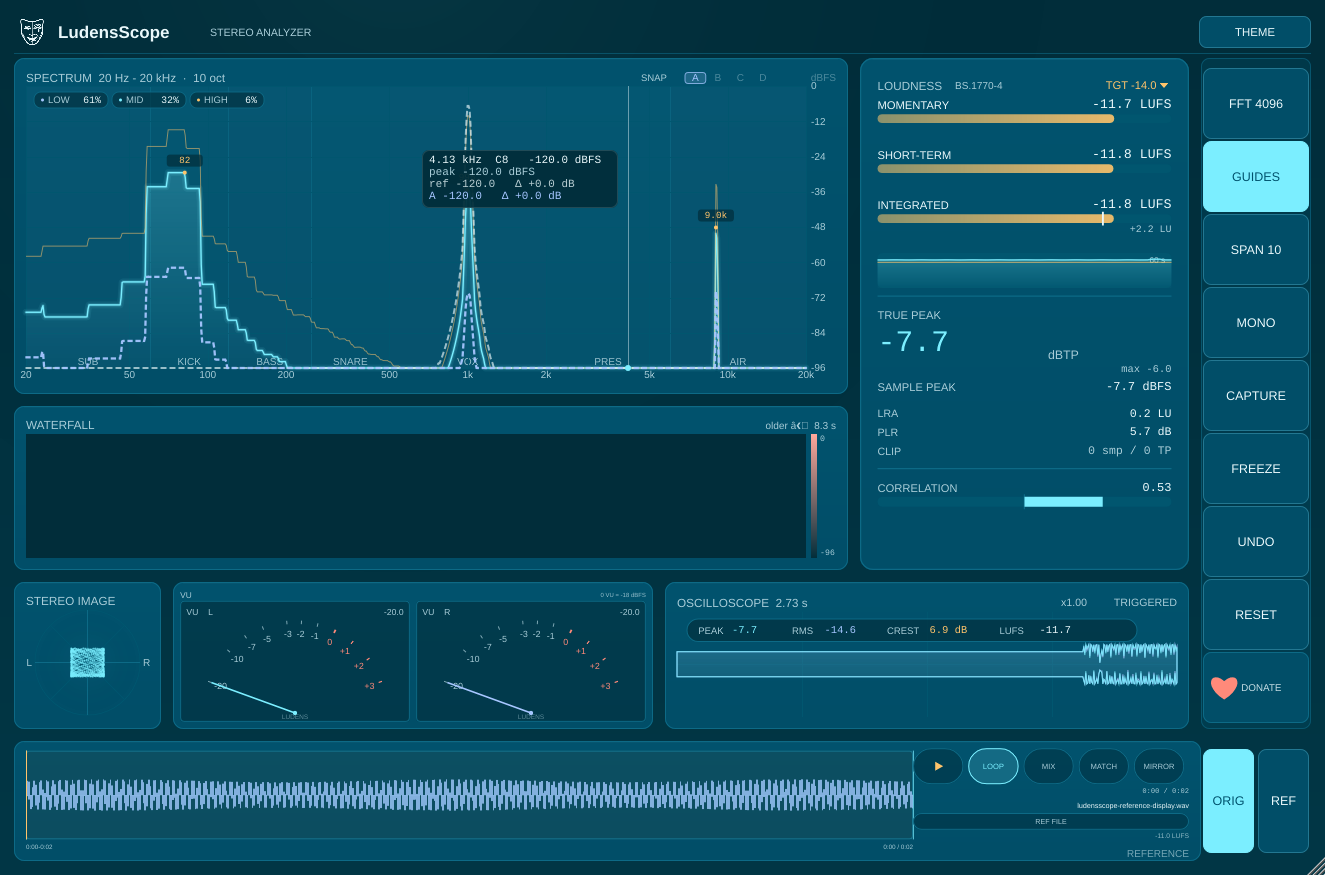
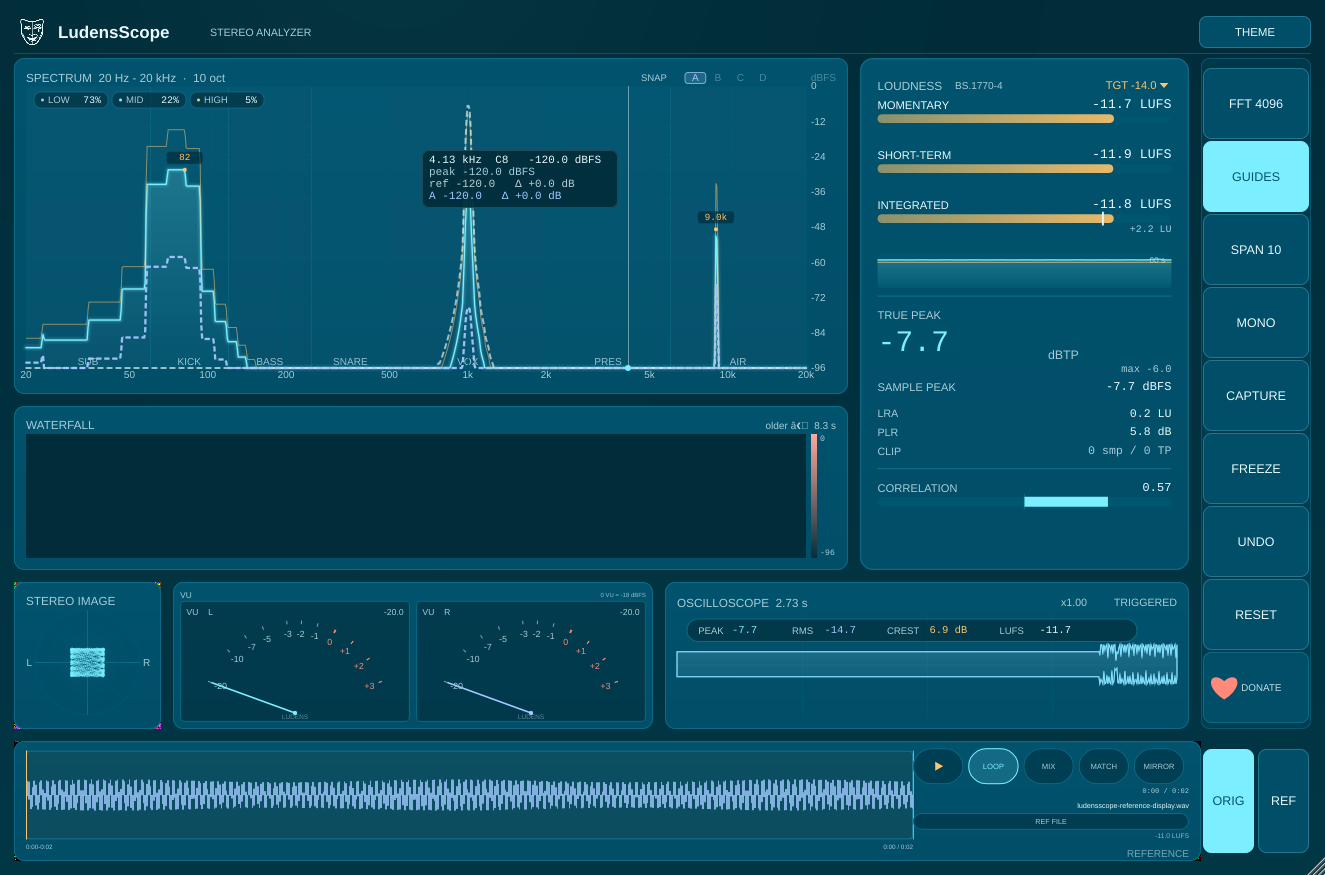
ui: mark panels opaque and buffered to stop window flicker
The spectrum, waterfall, meter panel, vector scope, oscilloscope, VU
and reference strip repainted every 30 Hz without being opaque or
buffered, so the host window could flash slightly during long sessions.
Each panel now sets setOpaque(true) and setBufferedToImage(true); the
editor already was opaque. Tests 3/3; QA renders still fine.

diff --git a/Source/ui/VectorScopeView.h b/Source/ui/VectorScopeView.h
@@ -11,6 +11,13 @@
 class VectorScopeView : public juce::Component
 {
 public:
+    VectorScopeView()
+    {
+        setOpaque (true);
+        setBufferedToImage (true);
+    }
+
+public:
     void setData (const float* leftSamples, const float* rightSamples, int numSamples)
     {
         left.assign (leftSamples, leftSamples + numSamples);

diff --git a/Source/ui/OscilloscopeView.h b/Source/ui/OscilloscopeView.h
@@ -13,7 +13,11 @@
 class OscilloscopeView : public juce::Component
 {
 public:
-    OscilloscopeView() = default;
+    OscilloscopeView()
+    {
+        setOpaque (true);
+        setBufferedToImage (true);
+    }
 
     void setData (const float* leftSamples, const float* rightSamples,
                   int numSamples, bool frozen)

diff --git a/Source/ui/VuMeterView.h b/Source/ui/VuMeterView.h
@@ -16,7 +16,11 @@
 class VuMeterView : public juce::Component
 {
 public:
-    VuMeterView() = default;
+    VuMeterView()
+    {
+        setOpaque (true);
+        setBufferedToImage (true);
+    }
 
     // Puts both needles back on their mechanical rest stop (left, -20 VU).
     void setRest() noexcept

diff --git a/Source/ui/SpectrogramView.h b/Source/ui/SpectrogramView.h
@@ -14,6 +14,9 @@ class SpectrogramView : public juce::Component
 public:
     SpectrogramView()
     {
+        setOpaque (true);
+        setBufferedToImage (true);
+
         for (int i = 0; i < paletteSize; ++i)
             palette[(size_t) i] = heat ((float) i / (float) (paletteSize - 1));
 

diff --git a/Source/ui/SpectrumView.h b/Source/ui/SpectrumView.h
@@ -14,7 +14,11 @@
 class SpectrumView : public juce::Component
 {
 public:
-    SpectrumView() = default;
+    SpectrumView()
+    {
+        setOpaque (true);
+        setBufferedToImage (true);
+    }
 
     static constexpr int numBins = 512;
     static constexpr int snapshotCount = 4;

diff --git a/Source/ui/ReferenceStrip.h b/Source/ui/ReferenceStrip.h
@@ -25,7 +25,11 @@ public:
         float lufs = -100.0f;
     };
 
-    ReferenceStrip() = default;
+    ReferenceStrip()
+    {
+        setOpaque (true);
+        setBufferedToImage (true);
+    }
 
     void setState (State s) { state = std::move (s); repaint(); }
 

diff --git a/Source/ui/MeterPanel.h b/Source/ui/MeterPanel.h
@@ -12,7 +12,11 @@
 class MeterPanel : public juce::Component
 {
 public:
-    MeterPanel() = default;
+    MeterPanel()
+    {
+        setOpaque (true);
+        setBufferedToImage (true);
+    }
 
     void setUiScale (float scale) noexcept
     {
